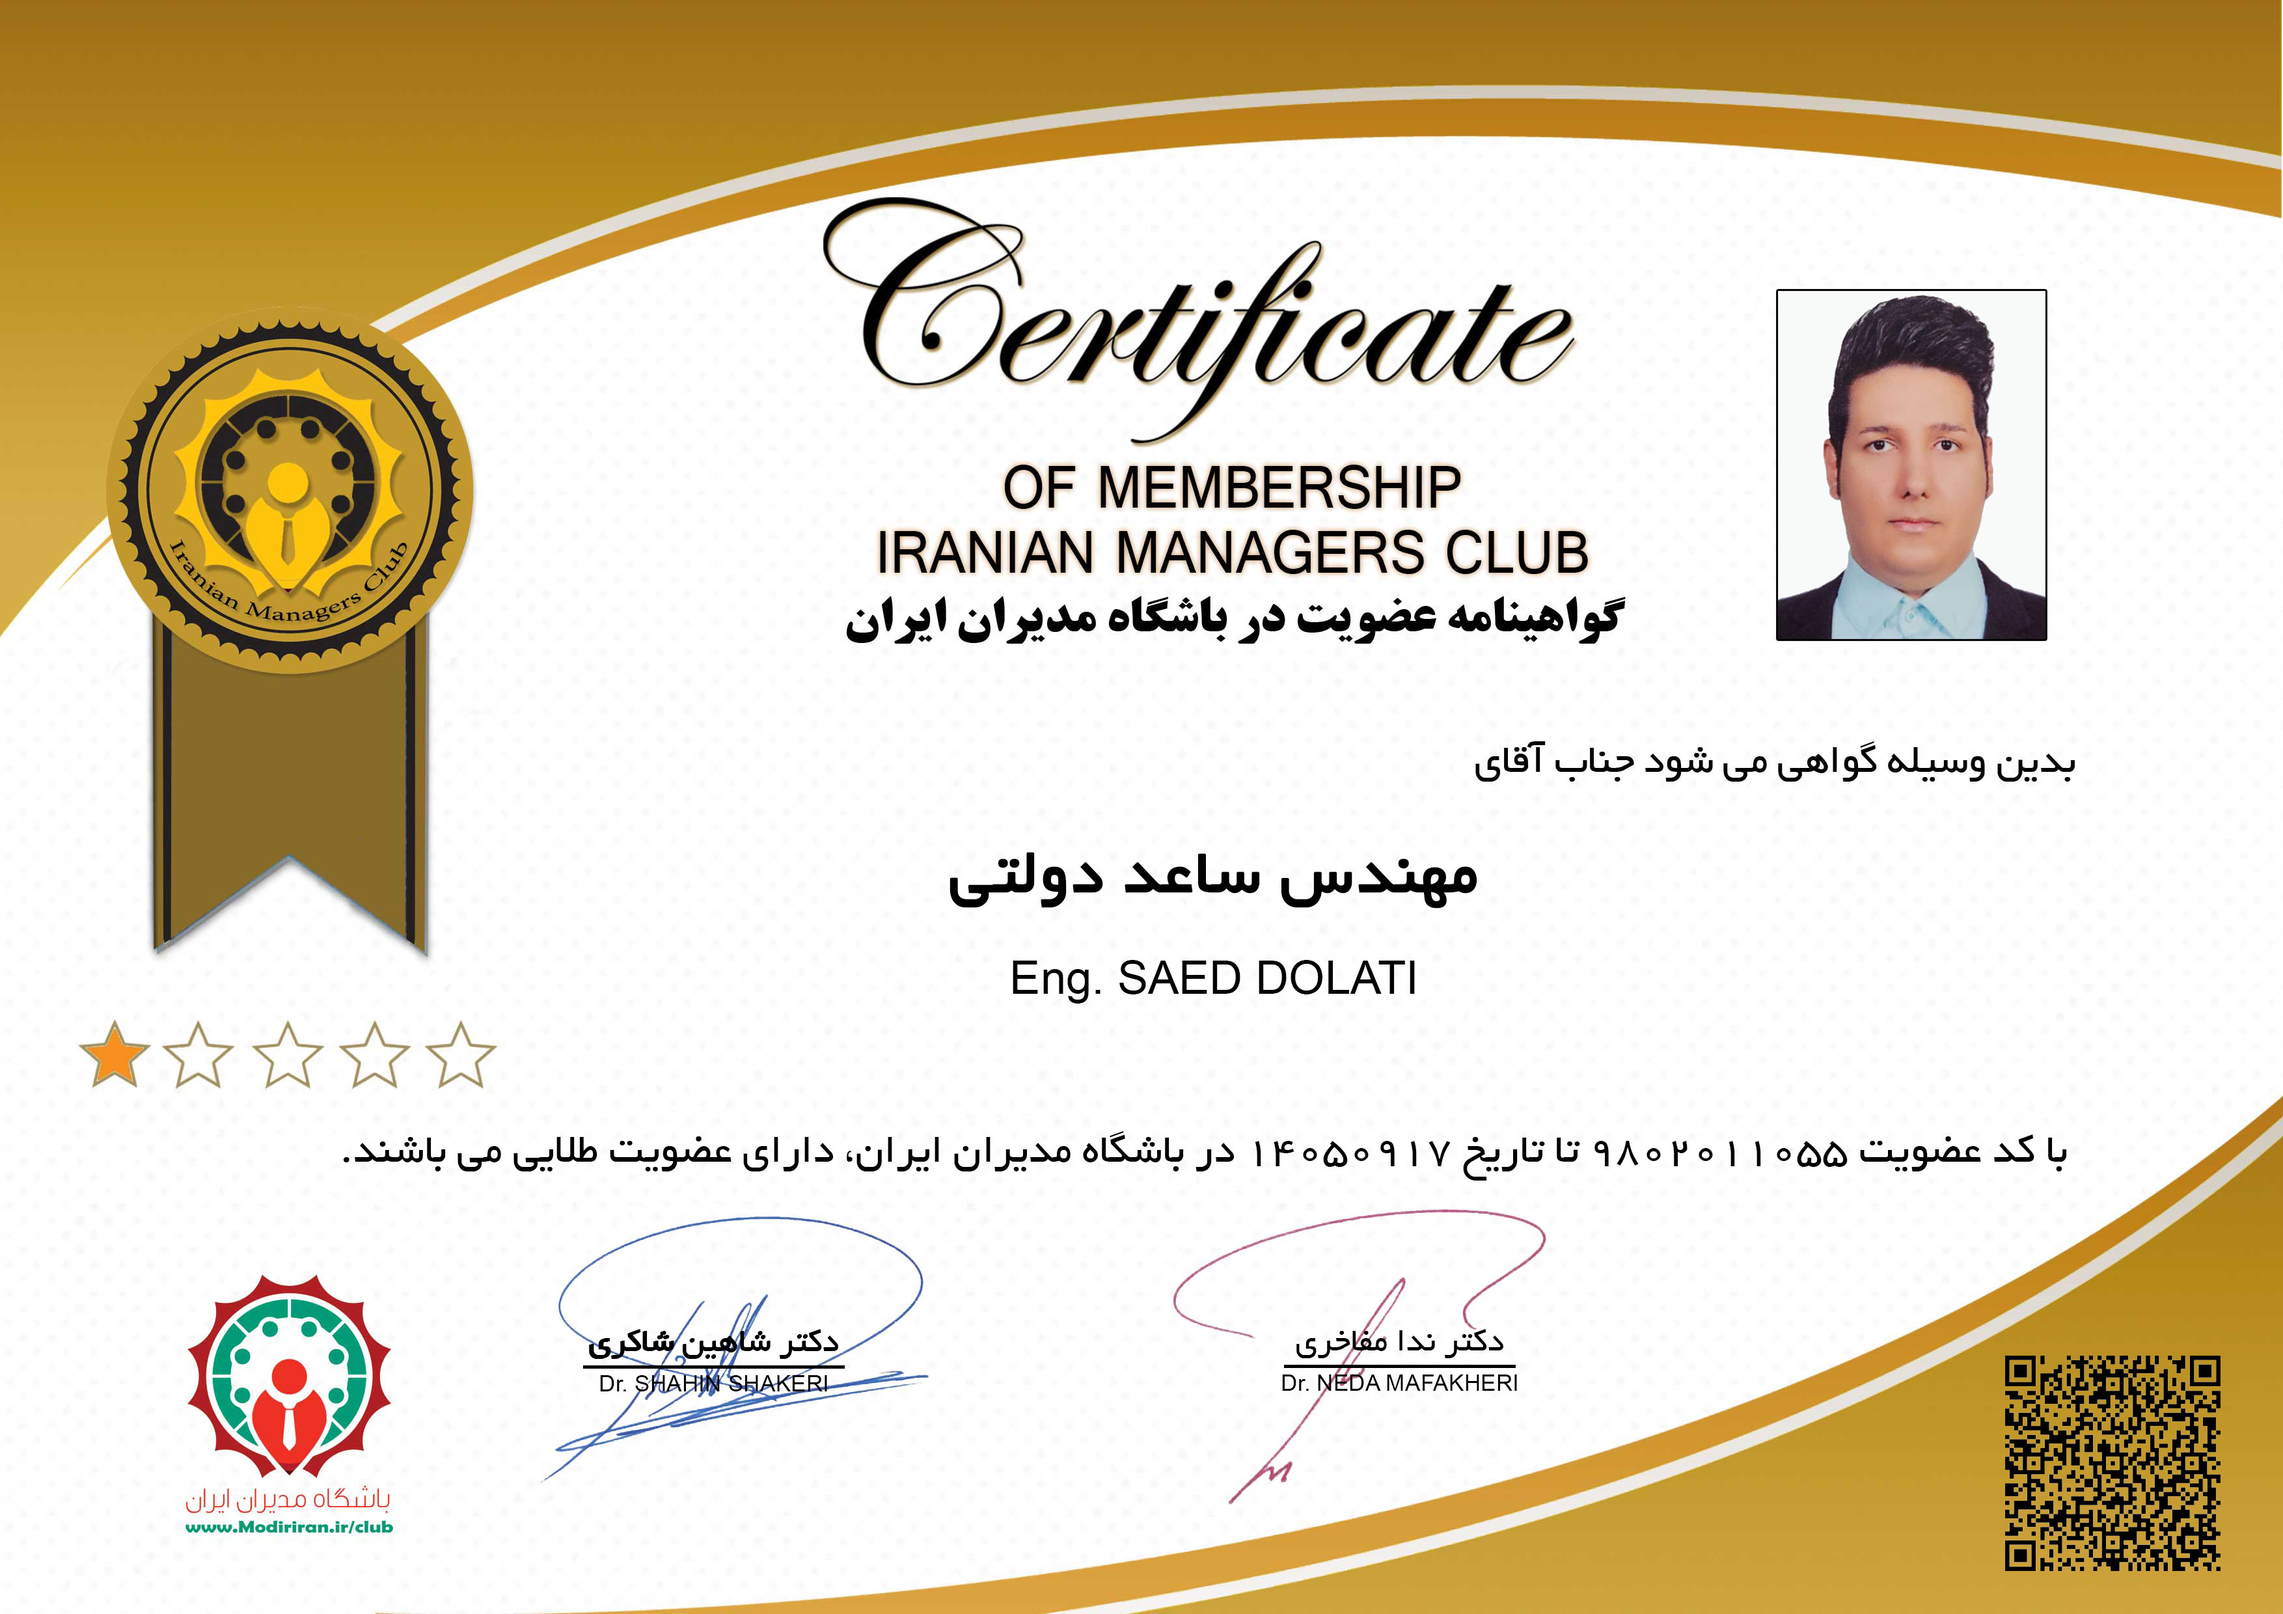
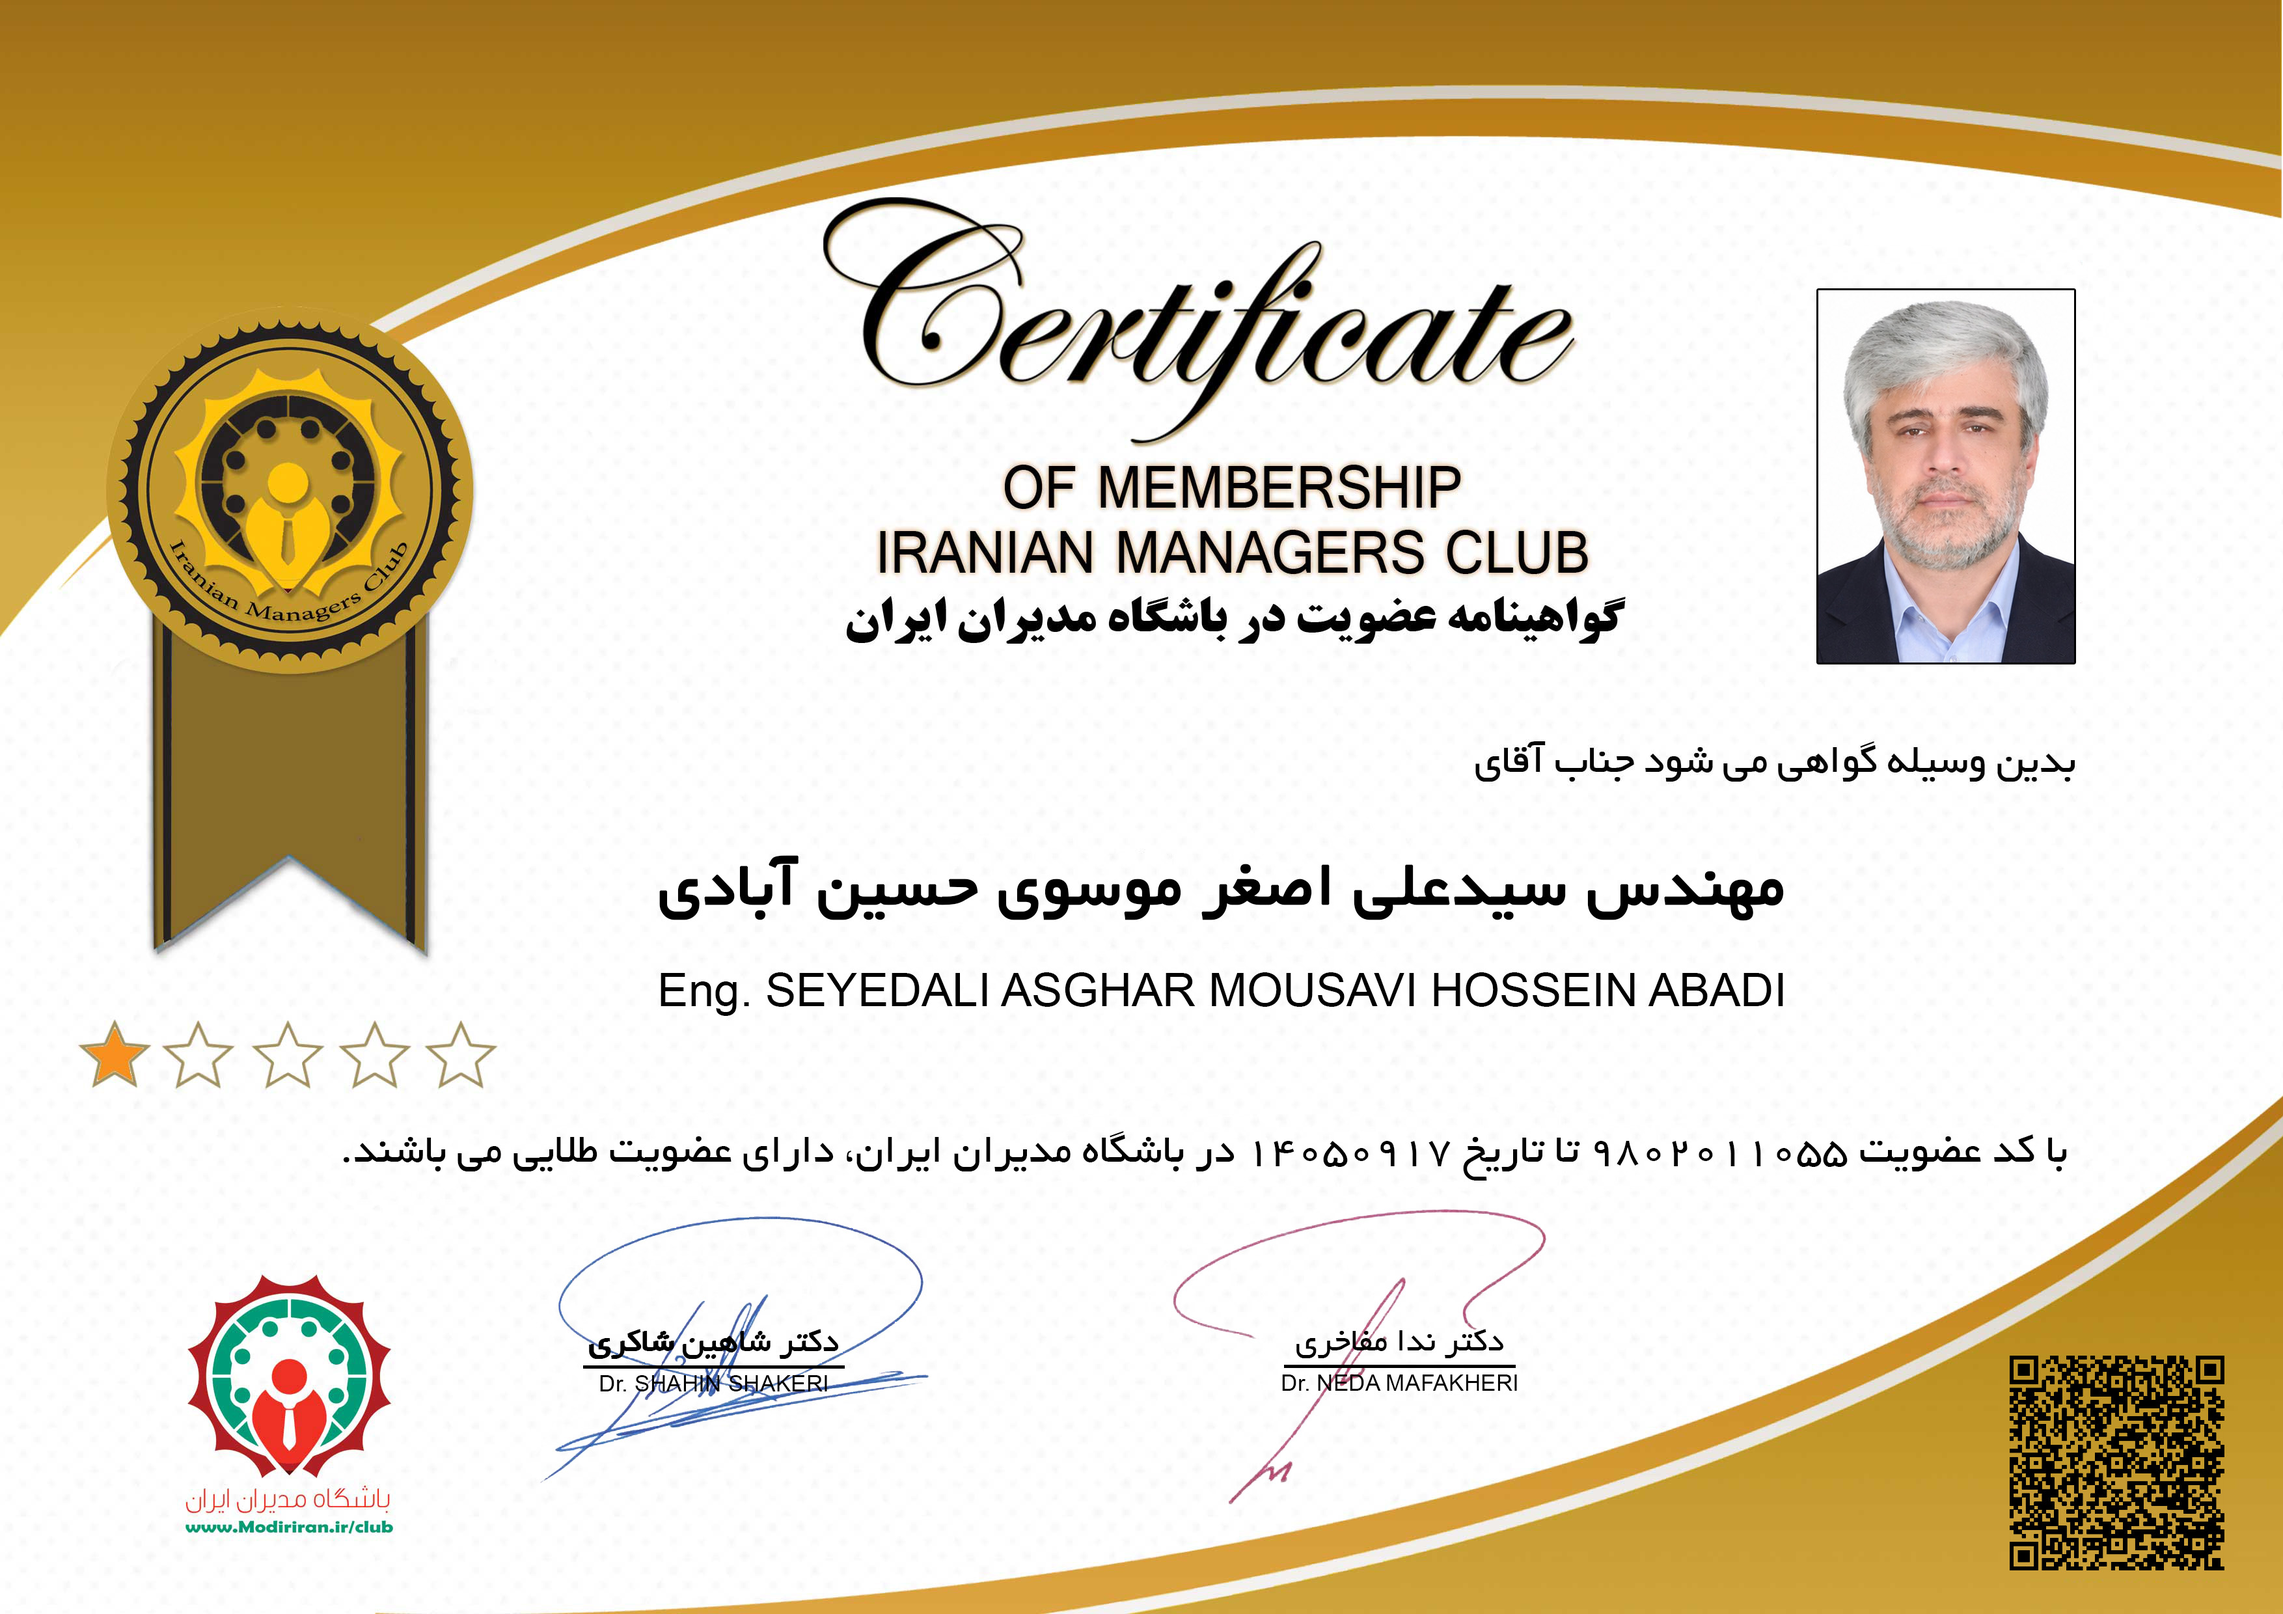
Add files via upload

Changed region(s): [[0.2796, 0.5278, 0.7768, 0.621], [0.7768, 0.1863, 0.9322, 0.4347], [0.87, 0.8383, 0.9943, 0.9935]]

diff --git a/iran-manager.html b/iran-manager.html
@@ -120,7 +120,7 @@
             <div class="row">
                 <div class="col-12 text-center">
                     <h1 class="display-4 fw-bold mb-3">
-                        آقای مهندس ساعد دولتی                                            </h1>
+                        آقای مهندس سیدعلی اصغر موسوی حسین آبادی                                            </h1>
                     <nav aria-label="breadcrumb">
                         <ol class="breadcrumb">
                             <li class="breadcrumb-item"><a href="https://modiriran.ir/club">خانه</a></li>
@@ -158,7 +158,7 @@
                             <div class="col-md-8">
                                 <div class="member-basic-info">
                                     <h2 class="member-name mb-3">
-                                        آقای مهندس ساعد دولتی                                    </h2>
+                                        آقای مهندس سیدعلی اصغر موسوی حسین آبادی                                    </h2>
                                     
                                     <div class="member-id mb-3">
                                         <i class="fas fa-id-card me-2"></i>
@@ -167,7 +167,7 @@
                                                                         <div class="member-position mb-3">
                                         <i class="fas fa-briefcase me-2"></i>
                                         <strong>موقعیت شغلی:</strong>
-                                        رئیس هیئت مدیره در شرکت مهندسی امرتات عمران پایدار                                    </div>
+                                        مدیرپروژه و طراحی و محاسبات در شرکت مهندسی امرتات عمران پایدار                                    </div>
                                                                         
                                                                         <div class="member-industry mb-3">
                                         <i class="fas fa-industry me-2"></i>
